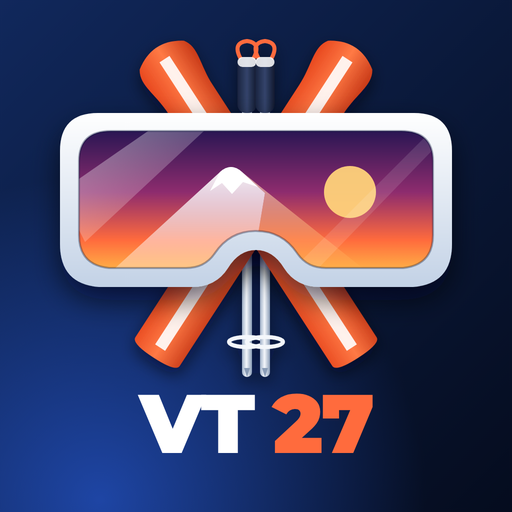
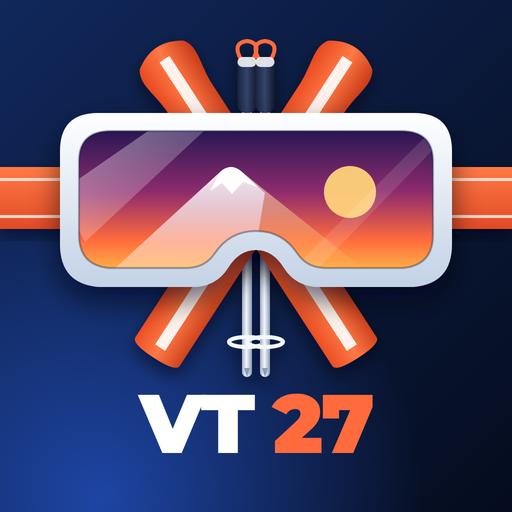
App-merki: ólin á skíðagleraugunum aftur inn
Claude-Session: https://claude.ai/code/session_01KQq1hWaFdSYsJHzBmMFPgB

Changed region(s): [[0.875, 0.3125, 1.0, 0.4688], [0.0, 0.3125, 0.125, 0.4688]]

diff --git a/sw.js b/sw.js
@@ -1,5 +1,5 @@
 /* Vistar appið svo það opnist líka án netsambands. Nær alltaf í nýjustu útgáfu þegar net er til staðar. */
-var C="vt27-v2";
+var C="vt27-v3";
 self.addEventListener("install",function(e){self.skipWaiting();e.waitUntil(caches.open(C).then(function(c){return c.addAll(["./","./index.html","./manifest.webmanifest","./icon-192.png","./apple-touch-icon.png","./kort-heim.jpg"])}))});
 self.addEventListener("activate",function(e){e.waitUntil(self.clients.claim())});
 self.addEventListener("fetch",function(e){var r=e.request;if(r.method!=="GET")return;var u=new URL(r.url);
